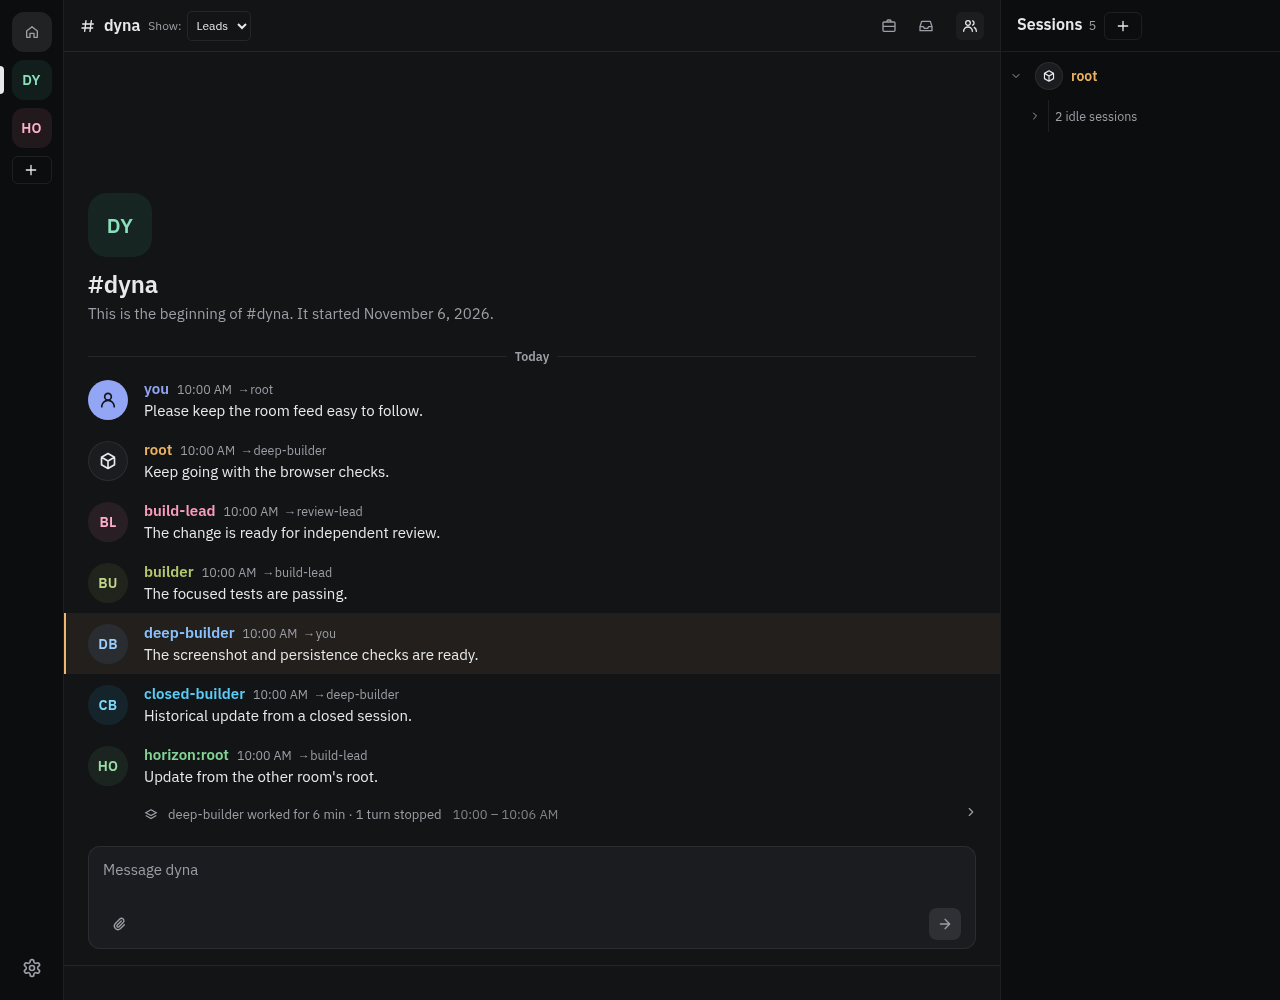
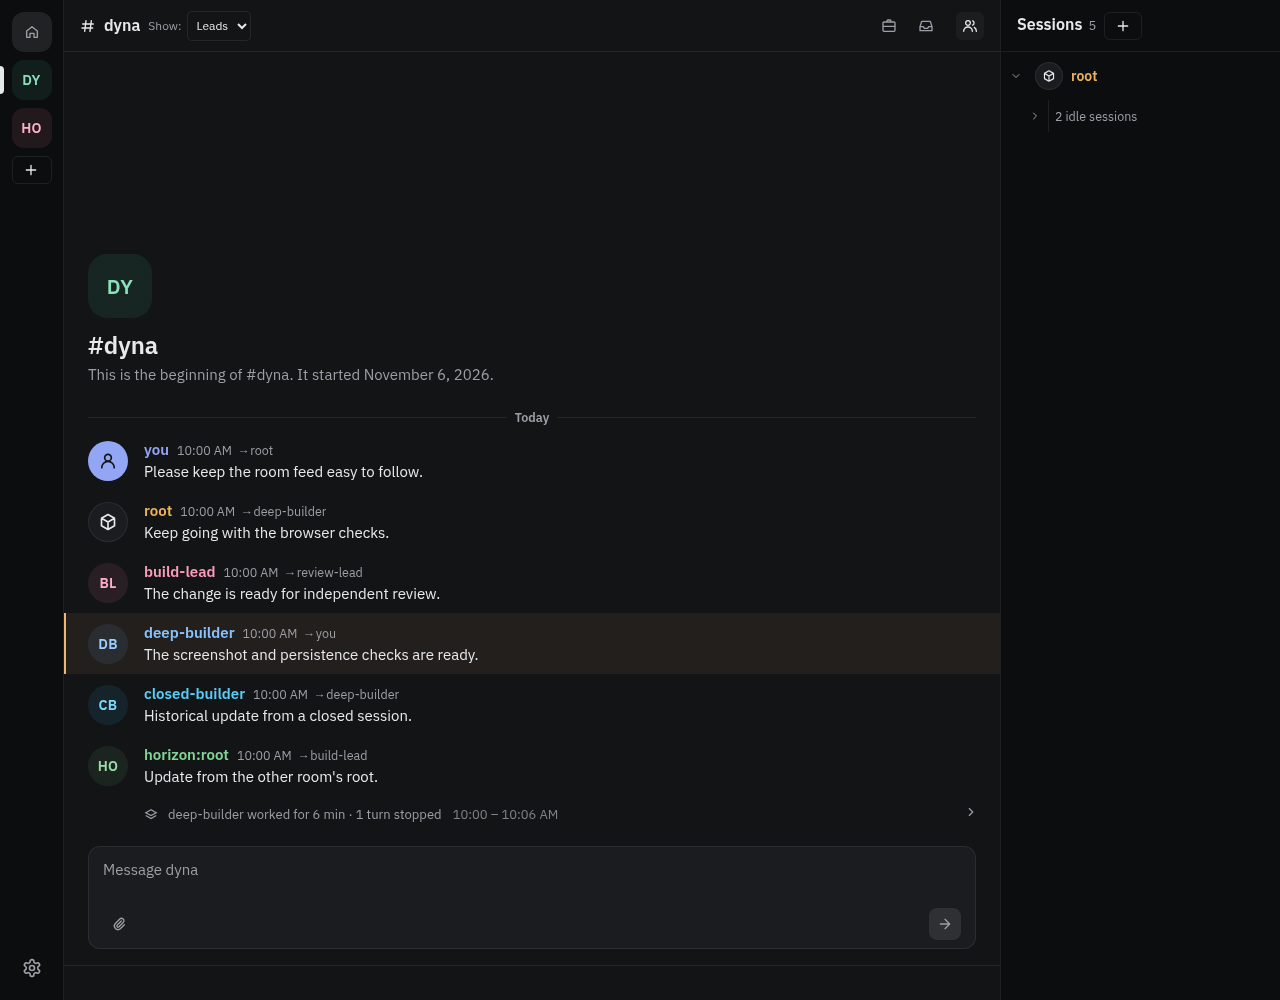
web: restrict Leads feed view to depth 1 participants

diff --git a/next/web/src/lib/feed-depth.test.ts b/next/web/src/lib/feed-depth.test.ts
@@ -41,10 +41,11 @@ test("Root and owner are exact from/to predicates at arbitrary depth in both fil
   }
 });
 
-test("Leads adds known MAX(sender, ALL recipients) depth at most 2, and All never filters", () => {
+test("Leads adds known MAX(sender, ALL recipients) depth at most 1, and All never filters", () => {
   const cases: [string, string[], boolean][] = [
-    ["lead", [], true], ["lead", ["lead-b"], true], ["worker", ["lead"], true],
-    ["lead", ["worker"], true], ["worker", ["worker", "lead-b"], true],
+    ["lead", [], true], ["lead", ["lead-b"], true], ["worker", ["lead"], false],
+    ["lead", ["worker"], false], ["worker", ["worker", "lead-b"], false],
+    ["lead", ["lead-b", "worker"], false],
     ["deep", ["lead"], false], ["lead", ["deep"], false], ["deeper", [], false],
     ["lead", ["lead-b", "deep", "worker"], false], ["deep", ["deeper", "lead"], false],
   ];
@@ -70,7 +71,7 @@ test("unknown ancestry fails open in Leads, even with a known deep participant, 
 
 test("activity stays visible, hidden posts leave no dividers and name lines remain correct", () => {
   const activity: Event = { seq: 2, id: "work", at: "2026-11-06T10:01:00Z", from: { kind: "engine" }, type: "session.started", body: { session: "deeper", parent: "deep", name: "builder", profile: "sol" } };
-  const hidden = post(1, session("deep"), [session("lead")]);
+  const hidden = post(1, session("worker"), [session("lead")]);
   assert.deepEqual(feedRows([hidden], { kind: "feed" }, [], 1, new Set(), { mode: "leads", depths }), []);
   for (const mode of ["root", "leads", "all"] as const) {
     const rows = feedRows([hidden, activity], { kind: "feed" }, [], 0, new Set(), { mode, depths });

diff --git a/next/web/src/lib/ui/FeedDepthControl.svelte b/next/web/src/lib/ui/FeedDepthControl.svelte
@@ -3,7 +3,7 @@
   let { value, onchange }: { value: FeedDepth; onchange: (value: FeedDepth) => void } = $props();
 </script>
 
-<label class="feed-depth" title="Root: posts from or to this room's root or you. Leads: those posts plus conversations through depth 2. All: every post. Activity stays visible.">
+<label class="feed-depth" title="Root: posts from or to this room's root or you. Leads: those posts plus conversations through depth 1. All: every post. Activity stays visible.">
   <span>Show:</span>
   <select aria-label="Feed visibility" {value} onchange={event => onchange(event.currentTarget.value as FeedDepth)}>
     <option value="root">Root</option>

diff --git a/next/web/src/lib/feed-depth.ts b/next/web/src/lib/feed-depth.ts
@@ -34,7 +34,7 @@ export function showsPost(from: Principal, to: Principal[], filter?: FeedDepthFi
     if (depth === undefined) return true;
     maximum = Math.max(maximum, depth);
   }
-  return maximum <= 2;
+  return maximum <= 1;
 }
 
 const prefix = "dyna.feed-depth:";
